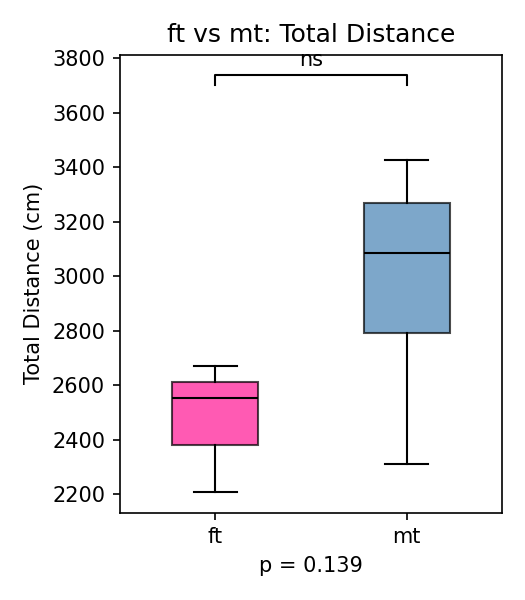
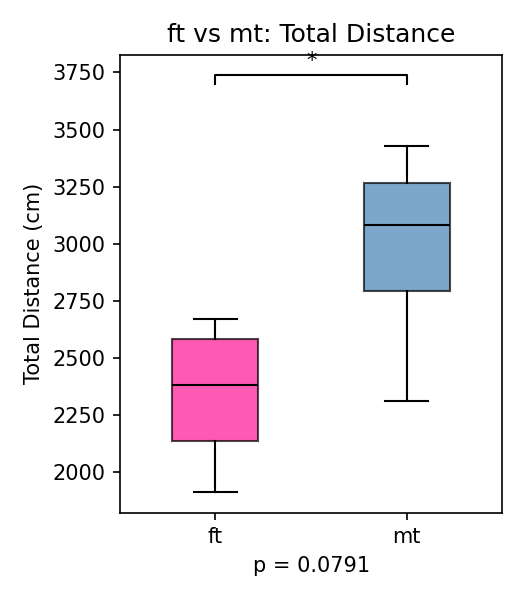
changed min id len

diff --git a/PupalHeight_Detection/pupal_height_analysis.py b/PupalHeight_Detection/pupal_height_analysis.py
@@ -6,8 +6,8 @@ import pandas as pd
 from scipy.stats import ttest_ind, linregress, t
 
 EVAL_SUMMARY = "/Volumes/Crucial X9/Cameras-Calit2IRT/PupalHeight_Detection/TestingEval/eval_summary.csv"
-ALGORITHM = None            # set to a value from eval_summary's `algorithm` column to filter; None = use all rows
-MIN_ID_LENGTH_SEC = 40      # skip videos whose IDs switch in under this many seconds
+ALGORITHM = None # set to a value from eval_summary's `algorithm` column to filter; None = use all rows
+MIN_ID_LENGTH_SEC = 0 # skip videos whose IDs switch in under this many seconds, used to be 40 but I made it 0 now to see what happenes
 
 # CSV path per video
 TRACK_CSV = "/Volumes/Crucial X9/Cameras-Calit2IRT/PupalHeight_Detection/TestingOutput/{vid}_orb_watershed_velocity_hungarian_pathing.csv"
@@ -15,7 +15,7 @@ OUT_DIR = "/Volumes/Crucial X9/Cameras-Calit2IRT/PupalHeight_Detection/AnalysisO
 
 FPS = 119
 N_FLIES = 20
-CM_PER_PX = 10 / 1730
+CM_PER_PX = 10/1730 # idk this is based on calit2
 DURATION_SEC = 300
 BIN_SIZE = 5
 
@@ -47,7 +47,16 @@ def reg_ci(x, y, xgrid, alpha=0.05):
 
 
 def stars(p):
-    return "***" if p < 0.001 else "**" if p < 0.01 else "*" if p < 0.05 else "ns"
+    if p < 0.001:
+        return "****"  
+    elif p < 0.01:
+        return "***"
+    elif p < 0.05:
+        return "**"
+    elif p < 0.10:
+       return "*" 
+    else:
+        return "ns"
 
 
 # pick videos from eval_summary

diff --git a/README.md b/README.md
@@ -10,6 +10,13 @@ We have a test set consisting of videos of flies in a box surrounded by bright, 
 
 All of the algorithms follow the same overall idea but have different ways of doing it. We are trying to make a scritp that can detect the flies in each frame, then track them so that every fly keeps one unique ID over time.
 
+| Algorithm | Pros | Cons |
+|---|---|---|
+| **Kalman filter** (`kalman_filter.py`) | Estimates each fly's position and velocity, then corrects the prediction with every new detection.<br>Detected more flies than thresholding on CO3d78, CO4d78 and CO5d78. | Very badly fragmented: about 1,900 IDs per video, each lasting about a quarter of a second.<br>Never averaged more than 9.71 flies per frame out of 20, so many flies are missed. |
+| **High pass filter** (`high_pass_filter.py`, labeled `fft`) | Gave by far the most stable tracking: fewest IDs (51.8 on average) and the longest-lived ones (about 24.7 s).<br>Finds 15 to 20 flies per frame in all five videos.<br>Removes the slowly varying background, so no hand-picked brightness threshold is needed. | Still produces 2 to 4 times more IDs than the 20 real flies, so some tracks break.<br>IDs last only about 14 s in CO3d78 and CO5d78.<br>Averages 18.2 of 20 flies per frame, so some are still missed. |
+| **Thresholding** (`watershed_velocity_hungarian_pathing.py`) | Simple method: thresholding plus watershed, which also splits flies that touch.<br>Velocity prediction and Hungarian matching handle fast movement and flight.<br>Ghost tracks let a fly regain its ID when it reappears.<br>Worked reasonably on CO1d78 and CO2d78. | Needs a hand-picked brightness threshold.<br>Detects almost no flies in CO3d78, CO4d78 (0.01 per frame) and CO5d78.<br>Its low ID counts in those videos come from missed detections, not good tracking.<br>Only 4.59 flies per frame on average. |
+| **ORB** (`orb_watershed_velocity_hungarian_pathing.py`) | Built for smaller, lighter flies that the other methods struggle with.<br>The darkness gate and black-hat transform limit ORB's search to small dark spots.<br>Merging keypoints into blobs gives one detection per fly instead of dotty points.<br>The wall zone finds flies along the walls by subtracting a static background, which cancels smudges, shadows and scratches. | Not evaluated on the Blue test set, so there are no results to compare with the others.<br>Designed for non-Blue, small-fly videos, so it isn't a fit for the Blue set.<br>Has the most components to tune: the darkness gate, ORB keypoints, blob closing and the wall zone. |
+
 ### `watershed_velocity_hungarian_pathing.py`
 
 With these videos, I made an algorithm that uses simple thresholding and the watershed algorithm to uncover the fruit flies. Tracking is done with velocity prediction and Hungarian matching:
